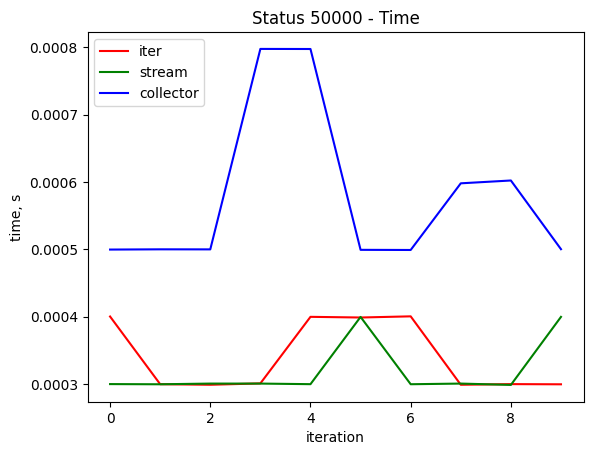
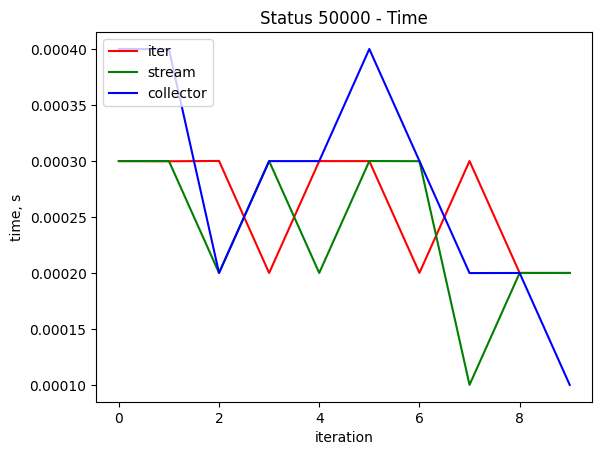
Add graphs and test results

diff --git a/src/main/java/ru/itmo/zavar/Main.java b/src/main/java/ru/itmo/zavar/Main.java
@@ -17,40 +17,59 @@ import java.nio.file.Files;
 import java.nio.file.Path;
 import java.nio.file.StandardOpenOption;
 import java.util.Set;
+import java.util.concurrent.ExecutorService;
+import java.util.concurrent.Executors;
 
 public final class Main {
     public static void main(String[] args) throws IOException {
 
-        final int[] count = new int[]{50000};
+        final int[] count = new int[]{5000, 15000, 25000, 50000, 100000, 250000};
+        final int[] iterations = new int[]{20, 20, 15, 10, 5, 3};
 
         final MailGenerator generator = new MailGenerator();
         final MailStatistics stats = new MailStatistics();
         final MailStatus statusToCheck = MailStatus.RAW;
         final Mark markToCheck = new Mark(MarkNominal.N500, "Canada", "N500_Canada");
+
         final IndividualActor actorToCheck = new IndividualActor("Alexander", "Stepanov", "Pavlovich",
             new Address("Russia", "Moscow", "Moscow Oblast", "412 Walnut St", "19984"));
 
-        for (int c : count) {
-            for (int i = 0; i < 2; i++) {
-                Set<Mail> mailSet = generator.generateMails(c);
-                ReportContainer<Long> statusReport = stats.reportAvailableByStatus(statusToCheck, mailSet);
-                ReportContainer<Long> markReport = stats.reportAvailableByMark(markToCheck, mailSet);
-                ReportContainer<Long> senderReport = stats.reportBySenderActor(actorToCheck, mailSet);
-                ReportContainer<Long> receiverReport = stats.reportByReceiverActor(actorToCheck, mailSet);
-                System.out.printf("Report %d for %d mails:\n", i, c);
-                System.out.printf("\tCount by status %s:\n", statusToCheck.name());
-                printReport(statusReport);
-                System.out.printf("\tCount by mark %s:\n", markToCheck.name());
-                printReport(markReport);
-                System.out.printf("\tCount by sender %s %s %s:\n", actorToCheck.getName(), actorToCheck.getSurname(), actorToCheck.getPatronymic());
-                printReport(senderReport);
-                System.out.printf("\tCount by receiver %s %s %s:\n", actorToCheck.getName(), actorToCheck.getSurname(), actorToCheck.getPatronymic());
-                printReport(receiverReport);
-                toFile(statusReport, i, c, "Status");
-                toFile(markReport, i, c, "Mark");
-                toFile(senderReport, i, c, "Sender");
-                toFile(receiverReport, i, c, "Receiver");
-            }
+        final ExecutorService executorService = Executors.newCachedThreadPool();
+
+        for (int j = 0; j < count.length; j++) {
+            int finalJ = j;
+            executorService.submit(() -> {
+                System.out.printf("Thread %d for %d mails started\n", finalJ, count[finalJ]);
+                for (int i = 0; i < iterations[finalJ]; i++) {
+                    Set<Mail> mailSet = generator.generateMails(count[finalJ]);
+                    ReportContainer<Long> statusReport = stats.reportAvailableByStatus(statusToCheck, mailSet);
+                    ReportContainer<Long> markReport = stats.reportAvailableByMark(markToCheck, mailSet);
+                    ReportContainer<Long> senderReport = stats.reportBySenderActor(actorToCheck, mailSet);
+                    ReportContainer<Long> receiverReport = stats.reportByReceiverActor(actorToCheck, mailSet);
+                    System.out.printf("Report %d for %d mails:\n", i, count[finalJ]);
+                    System.out.printf("\tCount by status %s:\n", statusToCheck.name());
+                    printReport(statusReport);
+                    System.out.printf("\tCount by mark %s:\n", markToCheck.name());
+                    printReport(markReport);
+                    System.out.printf("\tCount by sender %s %s %s:\n", actorToCheck.getName(), actorToCheck.getSurname(), actorToCheck.getPatronymic());
+                    printReport(senderReport);
+                    System.out.printf("\tCount by receiver %s %s %s:\n", actorToCheck.getName(), actorToCheck.getSurname(), actorToCheck.getPatronymic());
+                    printReport(receiverReport);
+                    try {
+                        toFile(statusReport, i, count[finalJ], "Status");
+                        toFile(markReport, i, count[finalJ], "Mark");
+                        toFile(senderReport, i, count[finalJ], "Sender");
+                        toFile(receiverReport, i, count[finalJ], "Receiver");
+                    } catch (IOException e) {
+                        throw new RuntimeException(e);
+                    }
+                }
+                if (finalJ == count.length - 1) {
+                    executorService.shutdownNow();
+                    executorService.close();
+                    System.exit(0);
+                }
+            });
         }
     }
 
@@ -61,7 +80,7 @@ public final class Main {
         if (Files.notExists(dir.resolve(filename)))
             Files.createFile(dir.resolve(filename));
         BufferedWriter bufferedWriter = Files.newBufferedWriter(dir.resolve(filename), StandardCharsets.UTF_8, StandardOpenOption.APPEND);
-        bufferedWriter.append(new String("%d,%d,%d,%d,%d,%d,%d").formatted(i, container.iterationValue(), container.iterationElapsedTime(),
+        bufferedWriter.append("%d,%d,%d,%d,%d,%d,%d".formatted(i, container.iterationValue(), container.iterationElapsedTime(),
             container.streamApiValue(), container.streamApiElapsedTime(), container.customCollectorValue(), container.customCollectorElapsedTime()));
         bufferedWriter.newLine();
         bufferedWriter.close();
